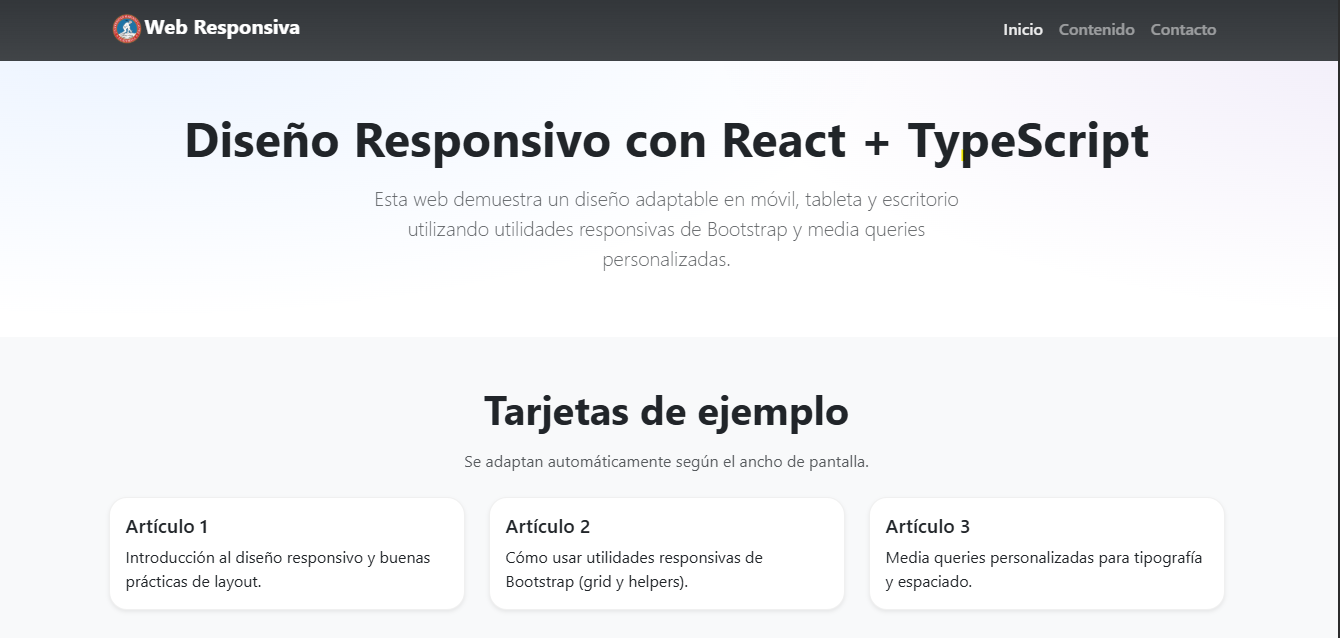
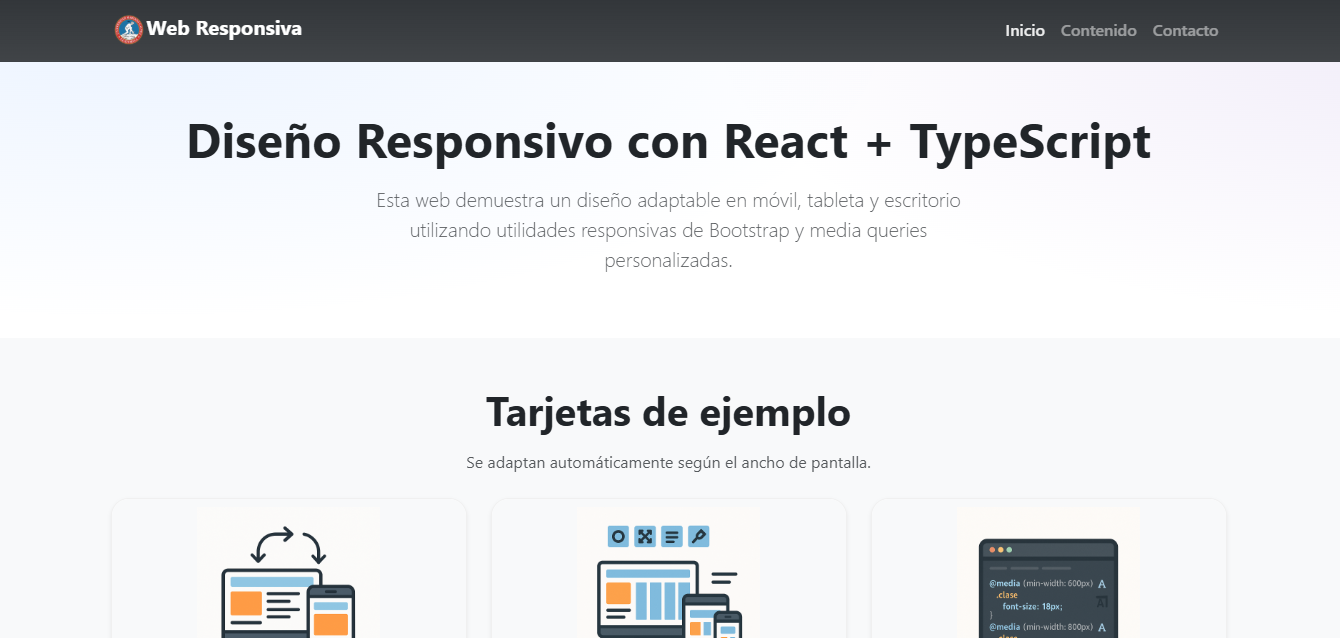
se agregaron imagenes

diff --git a/src/components/Section.tsx b/src/components/Section.tsx
@@ -3,20 +3,24 @@ import { Card, Row, Col, Container } from 'react-bootstrap';
 type CardItem = {
   title: string;
   text: string;
+  img: string;
 };
 
 const items: CardItem[] = [
   {
     title: 'Artículo 1',
     text: 'Introducción al diseño responsivo y buenas prácticas de layout.',
+    img: '/diseño responsivo.png',
   },
   {
     title: 'Artículo 2',
     text: 'Cómo usar utilidades responsivas de Bootstrap (grid y helpers).',
+    img: '/boopstrap.png',
   },
   {
     title: 'Artículo 3',
     text: 'Media queries personalizadas para tipografía y espaciado.',
+    img: '/media querys.png',
   },
 ];
 
@@ -33,7 +37,10 @@ export default function Section() {
           {items.map((c, i) => (
             <Col key={i} xs={12} md={6} lg={4} className="mb-4">
               {/* xs=12 (móvil 1 col), md=6 (tablet 2 col), lg=4 (desktop 3 col) */}
-              <Card className="h-100 shadow-sm">
+              <Card className="h-100 shadow-sm overflow-hidden">
+                <div className="ratio ratio-16x9 bg-light rounded-top">
+                <Card.Img variant="top" src={c.img} alt={c.title} className="img-fluid w-100 h-100 object-fit-contain p-2"/>
+                </div>
                 <Card.Body>
                   <Card.Title className="fw-semibold">{c.title}</Card.Title>
                   <Card.Text>{c.text}</Card.Text>
